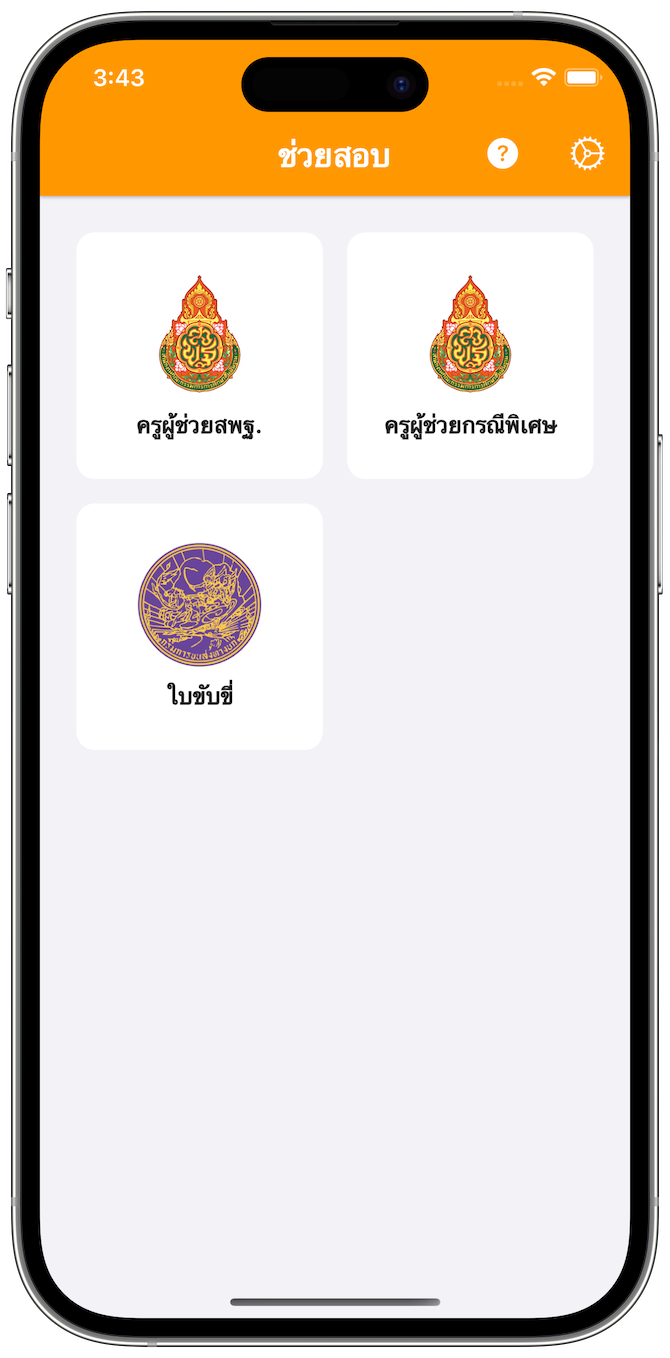
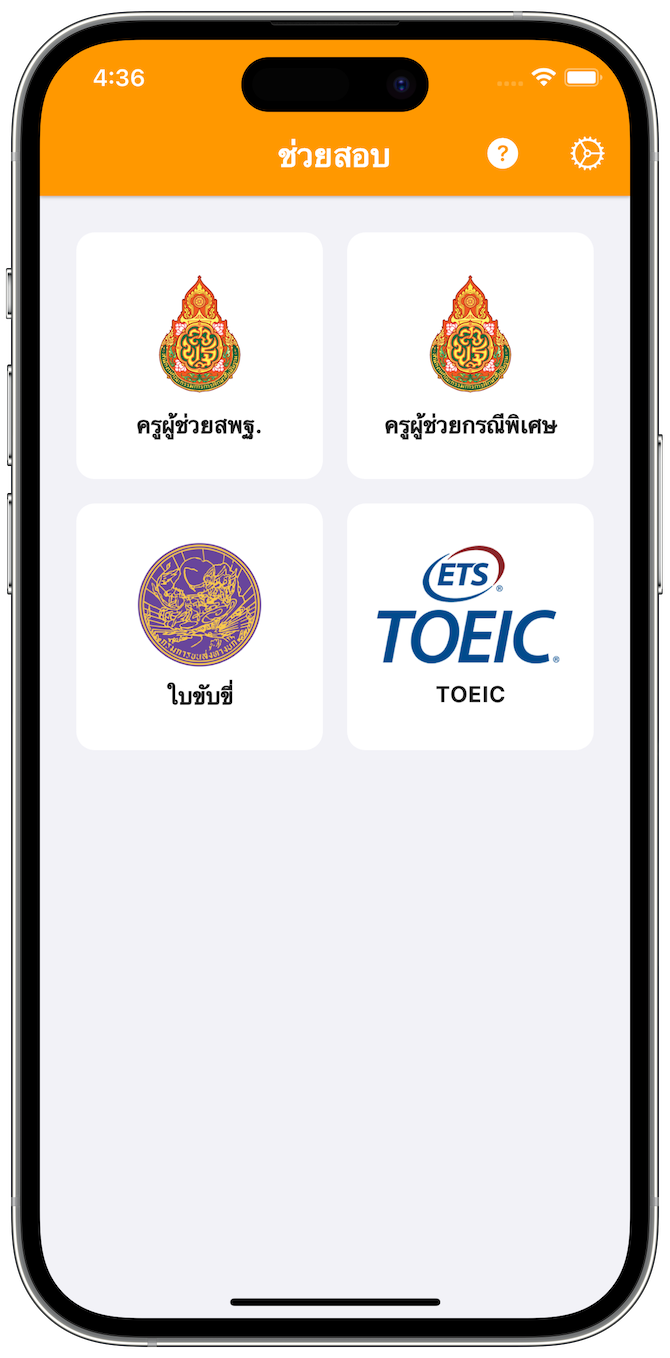
Update screenshot for TOEIC exam.

Changed region(s): [[0.5672, 0.4021, 0.8358, 0.5258], [0.1493, 0.0309, 0.209, 0.0619]]

diff --git a/chuaysob/index.html b/chuaysob/index.html
@@ -255,7 +255,7 @@
         <div>
           <h2>เลือกสนามสอบที่คุณต้องการ ✅</h2>
           <p>
-            ไม่ว่าจะเป็นครูผู้ช่วยหรือใบขับขี่ ต้องการจะสอบสนามไหน
+            ไม่ว่าจะเป็นครูผู้ช่วย, ใบขับขี่, หรือโทอิค ต้องการจะสอบสนามไหน
             ก็เลือกแล้วไปลุยกันเลย และในอนาคตจะมีสนามสอบให้เลือกเพิ่มอีกมากมาย
           </p>
         </div>
